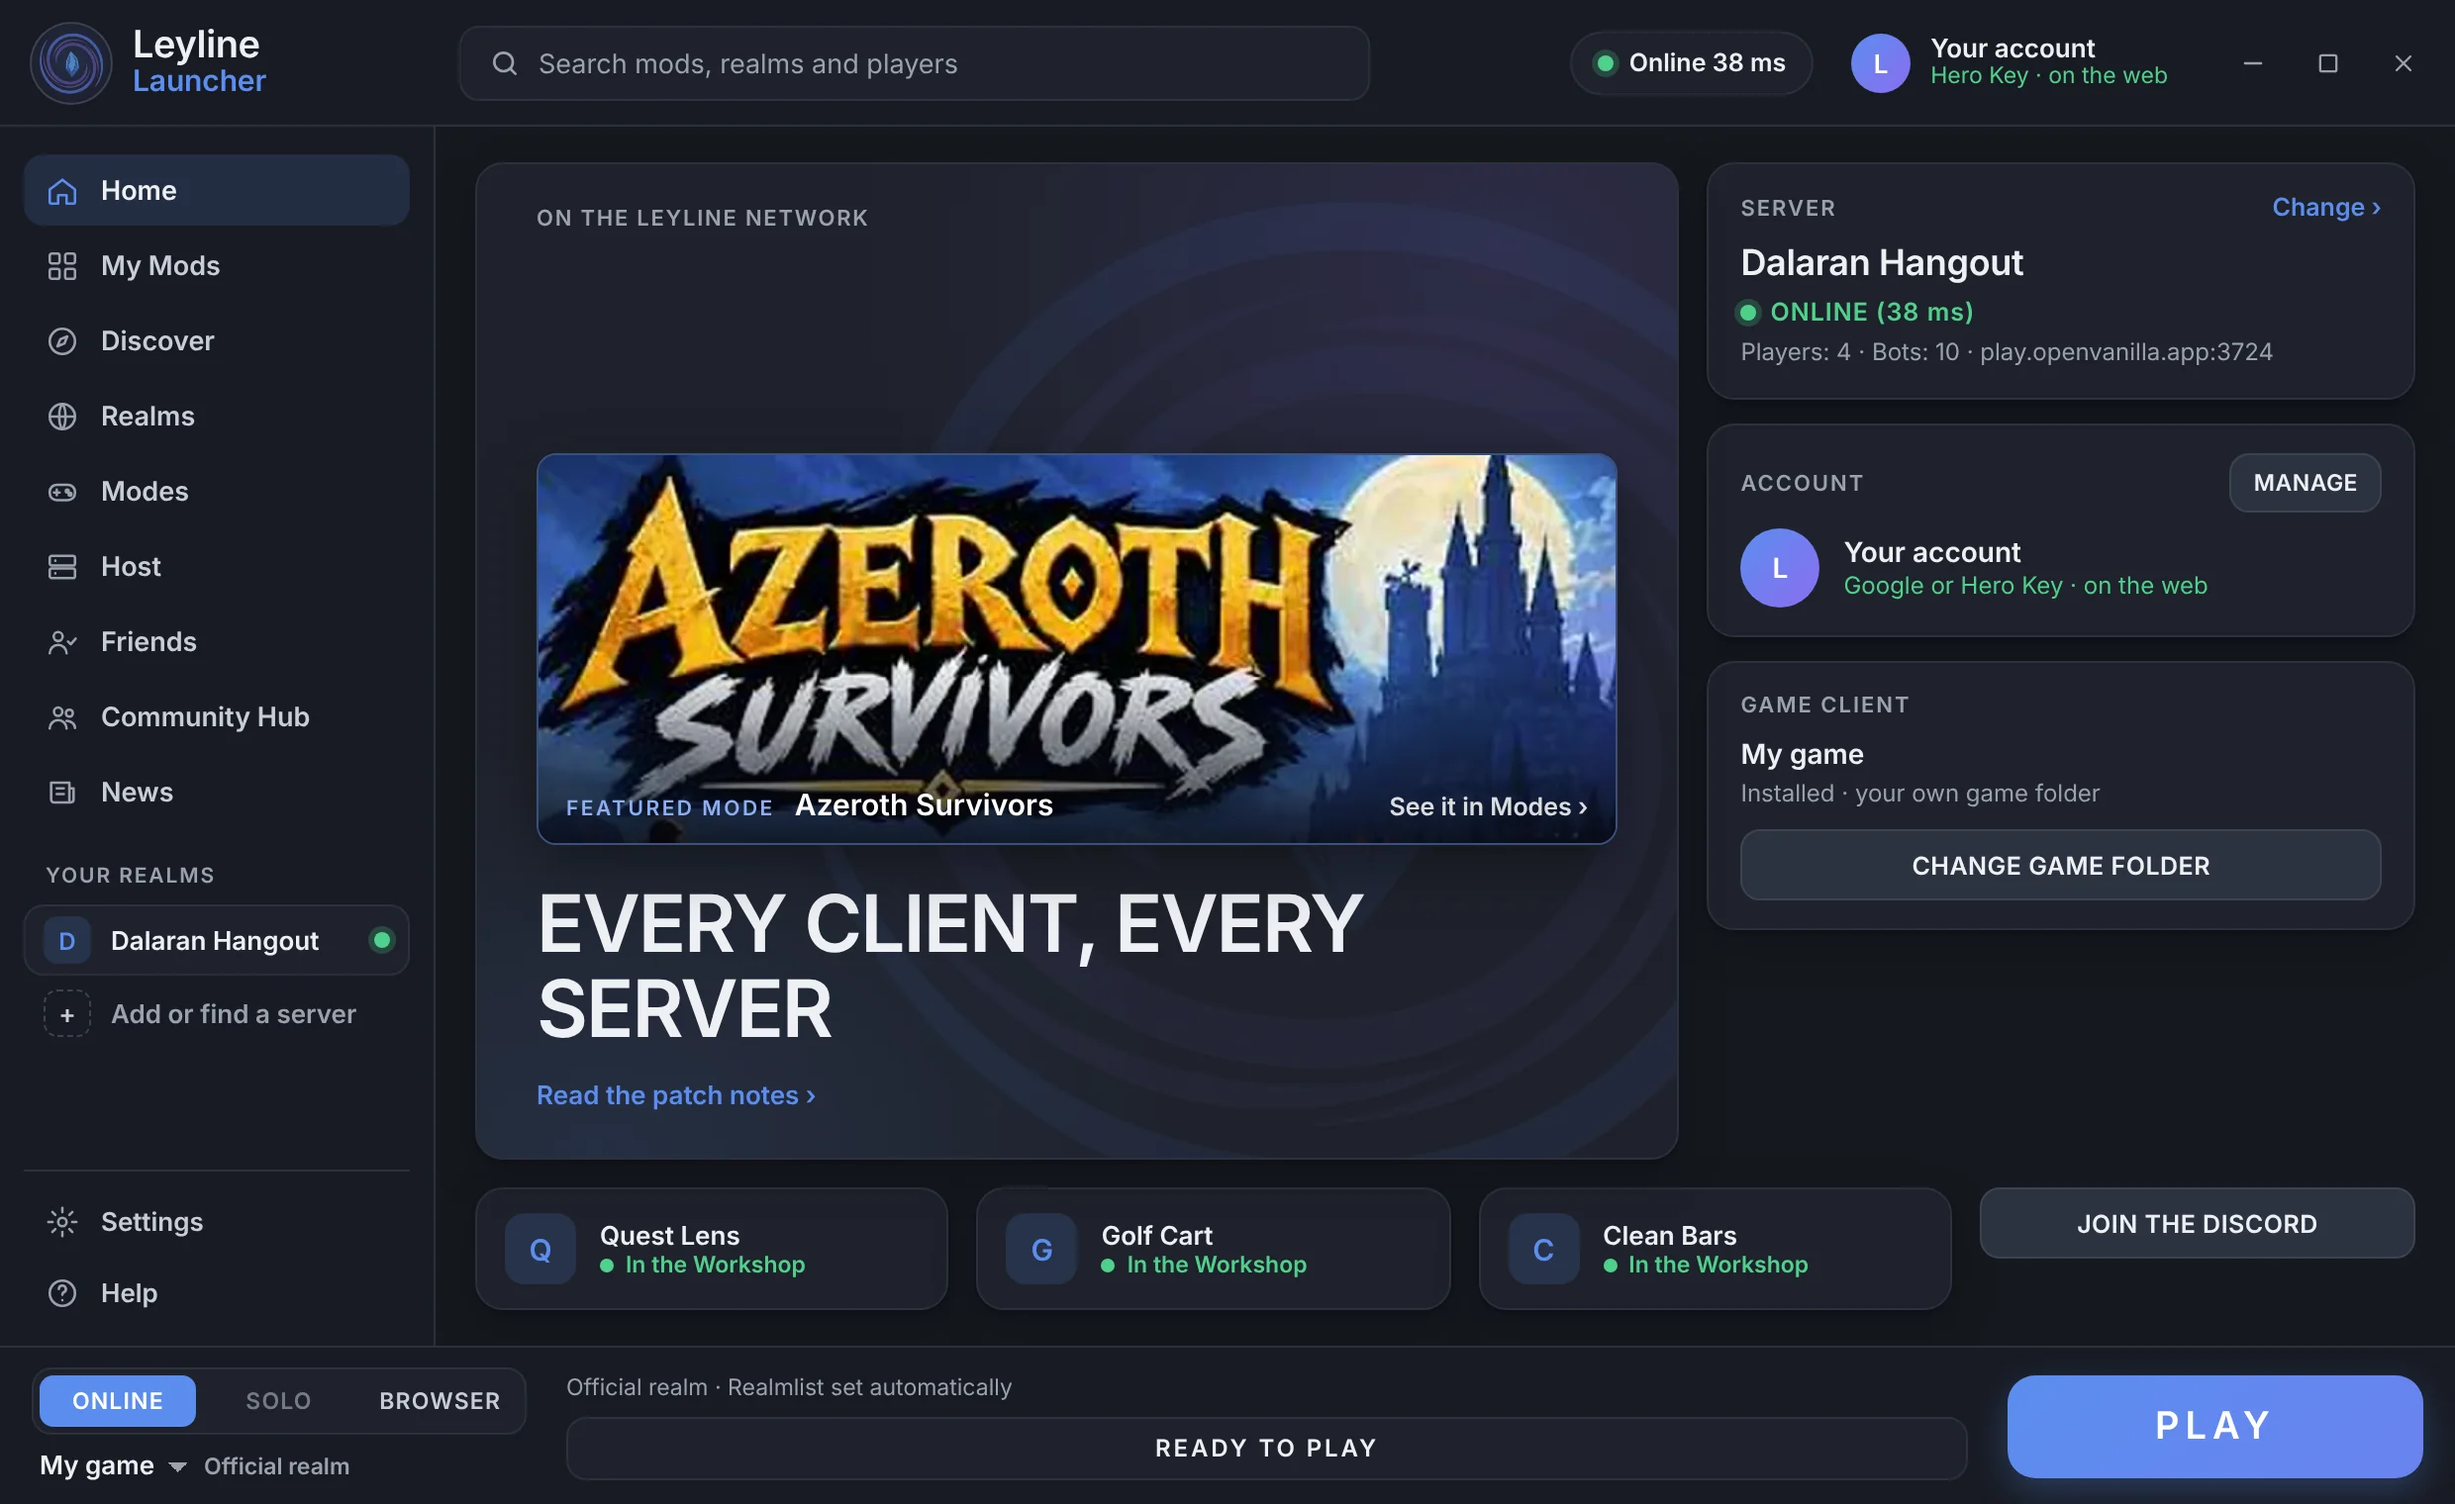
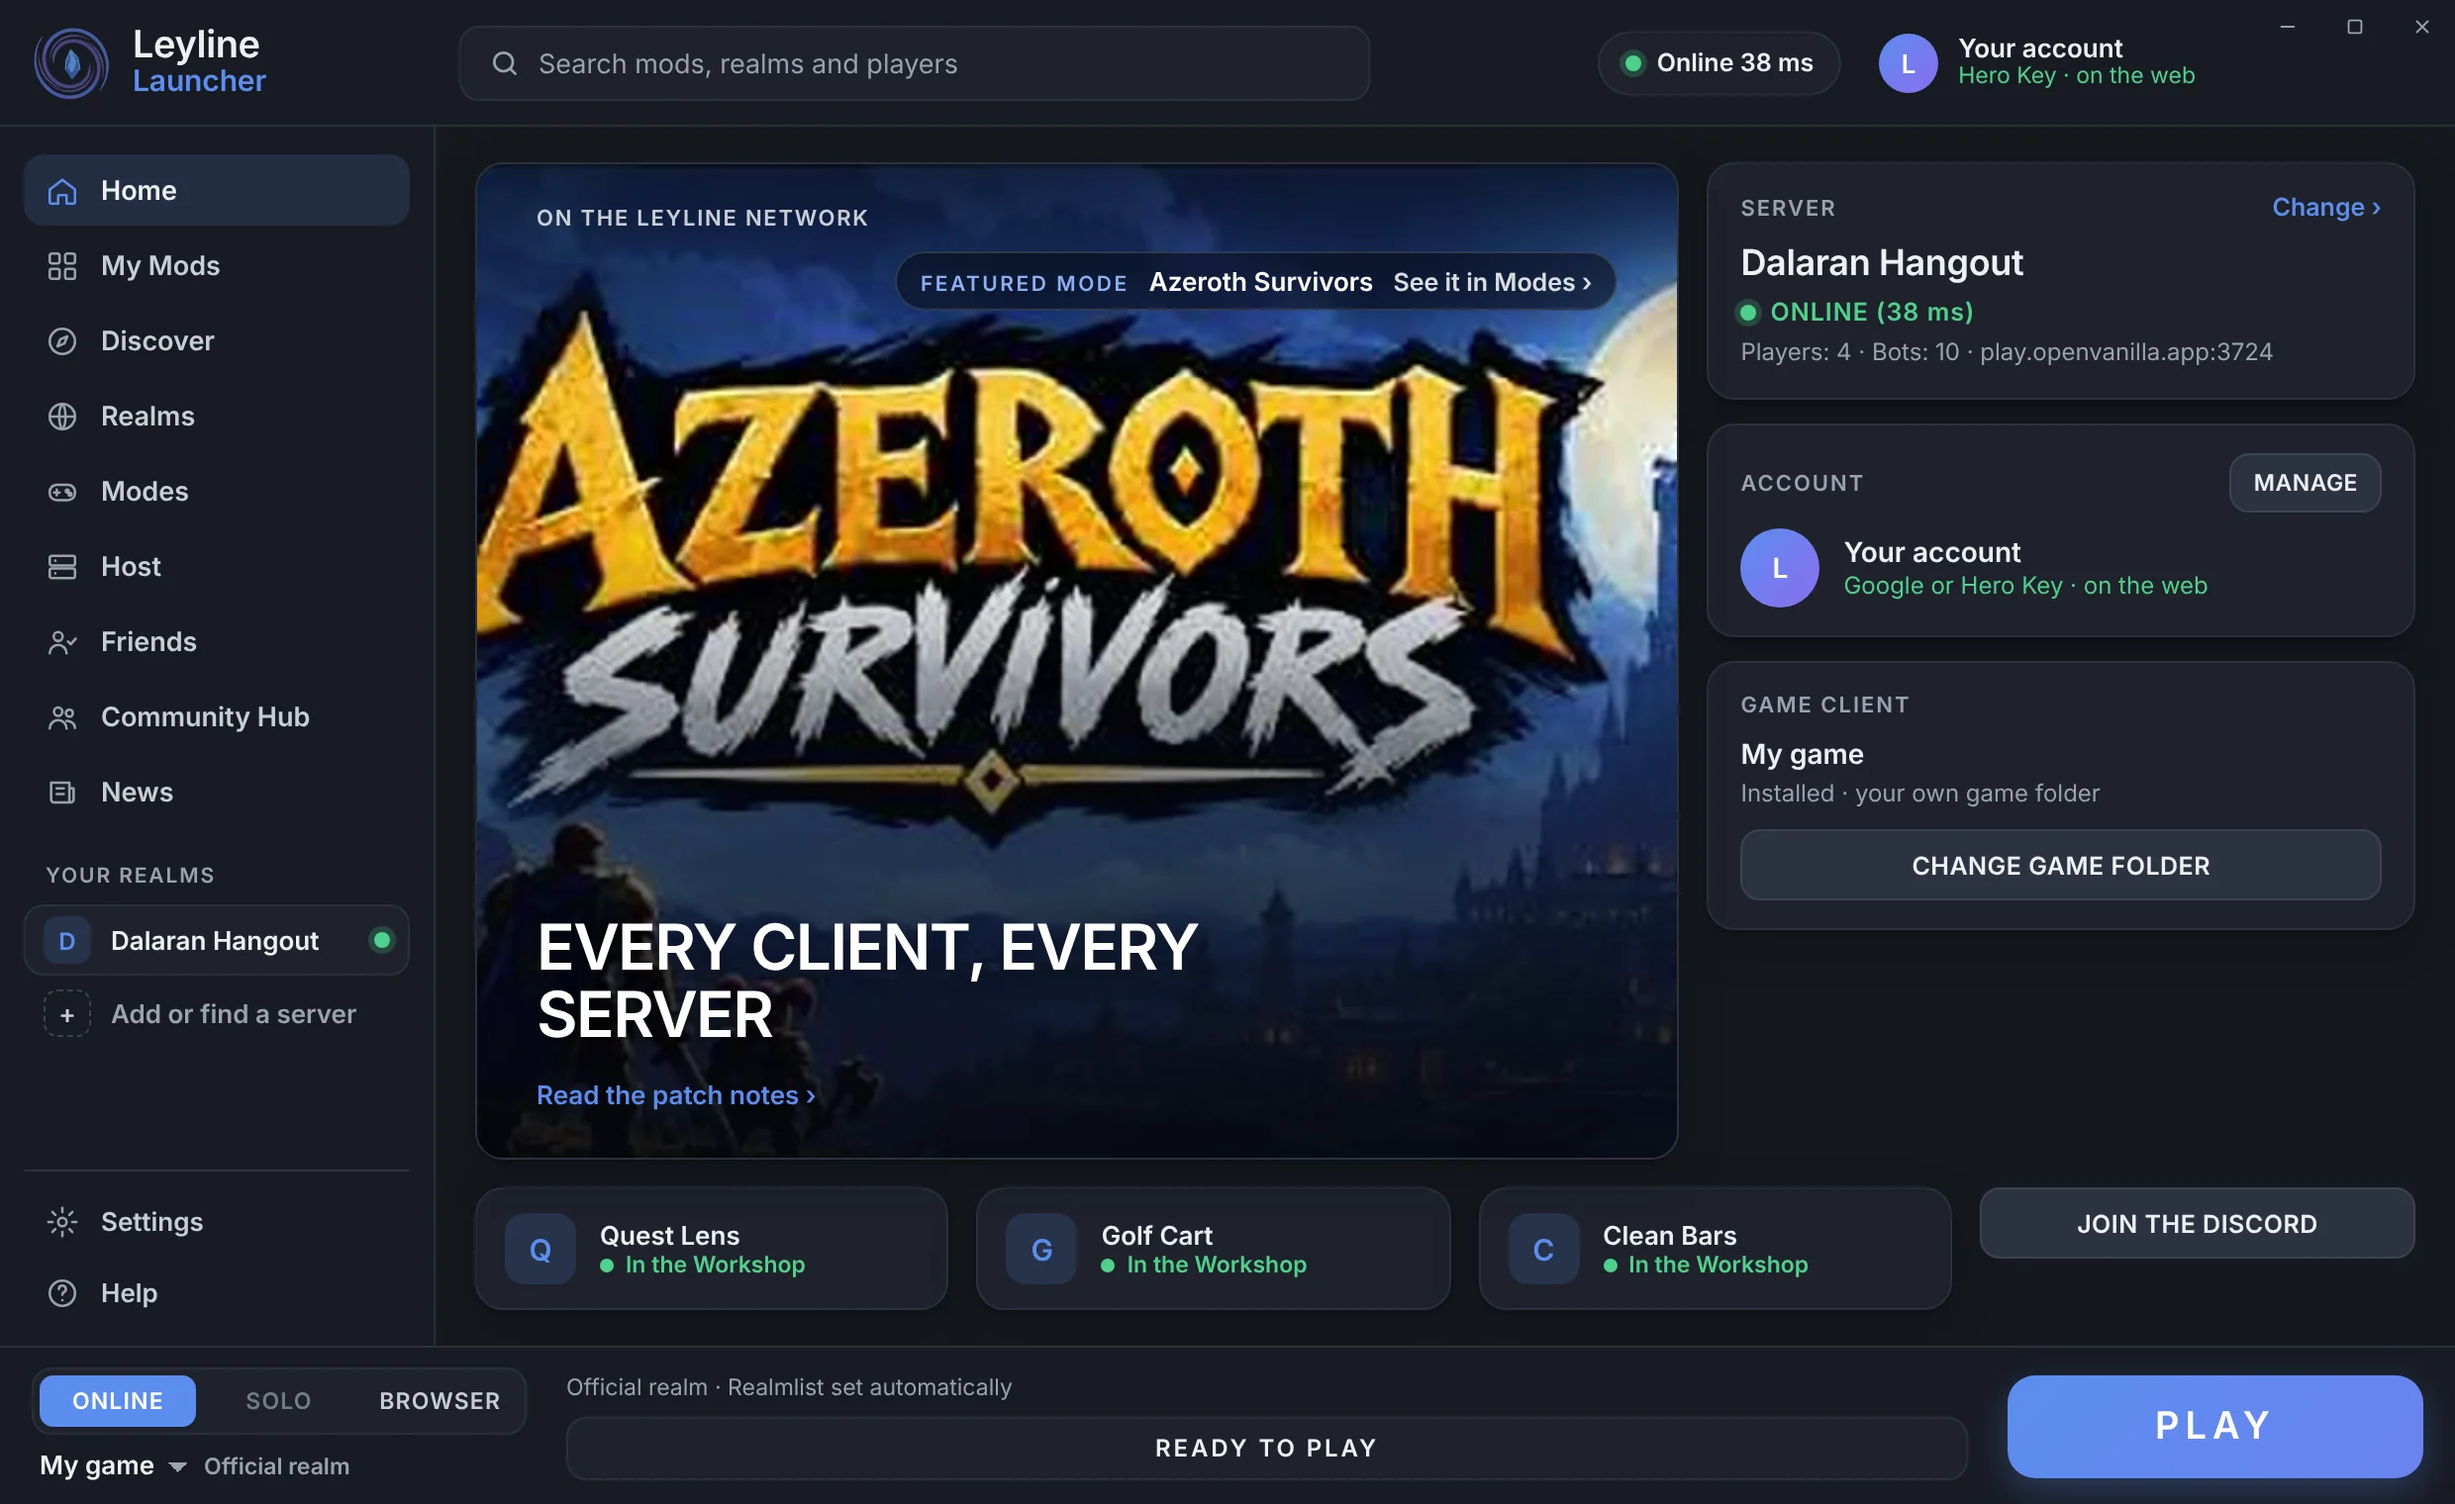
Updates from Claude (autopilot)

Changed region(s): [[0.1863, 0.0928, 0.6831, 0.773], [0.652, 0.0, 0.9004, 0.0618], [0.0, 0.0, 0.0621, 0.0618]]

diff --git a/launcher/ui/modes.css b/launcher/ui/modes.css
@@ -24,3 +24,20 @@
 .feat-mode:hover .fm-art, .feat-mode:focus-visible .fm-art { transform: scale(1.04); }
 .feat-mode:hover, .feat-mode:focus-visible { border-color: var(--t-accent); }
 @media (prefers-reduced-motion: reduce) { .feat-mode .fm-art { transition: none; } .feat-mode:hover .fm-art { transform: none; } .md-card.md-flash { animation: none; } }
+
+/* the featured mode's art fills Home's whole hero card (owner 2026-10-30): the banner is the card's backdrop, the
+   card's own words (tag line, title, patch notes) sit above it on a dark gradient; anywhere else on the card opens the mode */
+.news.has-feat::before { display: none; }
+.news.has-feat .feat-mode { position: absolute; inset: 0; z-index: 0; height: auto; margin: 0; border: 0; border-radius: 0; box-shadow: none; }
+.news.has-feat .feat-mode .fm-art { object-position: 22% 38%; }
+.news.has-feat h1 { font-size: 32px; max-width: 70%; }
+.news.has-feat .feat-mode::after {
+  background: linear-gradient(0deg, rgba(5, 7, 14, .92) 0%, rgba(5, 7, 14, .55) 34%, rgba(5, 7, 14, 0) 62%),
+              linear-gradient(180deg, rgba(5, 7, 14, .55) 0%, rgba(5, 7, 14, 0) 22%); }
+.news.has-feat > :not(.feat-mode) { position: relative; z-index: 1; }
+.news.has-feat .news-top { position: absolute; color: rgba(255, 255, 255, .78); }
+.news.has-feat h1, .news.has-feat ul { color: #fff; text-shadow: 0 2px 12px rgba(0, 0, 0, .6); }
+.news.has-feat ul { color: rgba(255, 255, 255, .86); }
+.news.has-feat .fm-txt { top: 44px; bottom: auto; left: auto; right: 30px; padding: 6px 12px; border-radius: 999px;
+  background: rgba(5, 7, 14, .55); -webkit-backdrop-filter: blur(6px); backdrop-filter: blur(6px); border: 1px solid rgba(255, 255, 255, .14); }
+.news.has-feat .fm-txt b { font-size: 13px; }

diff --git a/launcher/ui/style.css b/launcher/ui/style.css
@@ -112,7 +112,7 @@ svg { flex: none; }
 .titlebar {
   grid-column: 1 / -1;
   display: flex; align-items: center; gap: 12px;
-  padding: 0 8px 0 0;
+  padding: 0;
   background: var(--t-chrome);
   border-bottom: var(--t-border-w) solid var(--t-border);
 }
@@ -168,11 +168,13 @@ svg { flex: none; }
 .chip-txt { display: grid; text-align: left; line-height: 1.2; }
 .chip-txt span { font-size: 13px; font-weight: 600; }
 .chip-txt i { font-style: normal; font-size: 11.5px; color: var(--t-ok); }
-.winbtns { display: flex; gap: 2px; }
-.winbtns button { width: 36px; height: 32px; border: 0; border-radius: var(--t-radius-xs); background: transparent; color: var(--t-muted); cursor: pointer; display: grid; place-items: center; }
+/* the window buttons tucked into the top-right corner (owner 2026-10-30): flush with the edge, small, no gap */
+.winbtns { display: flex; gap: 0; align-self: flex-start; margin-left: 4px; }
+.winbtns button { width: 34px; height: 26px; border: 0; border-radius: 0; background: transparent; color: var(--t-muted); cursor: pointer; display: grid; place-items: center; }
 .winbtns button:hover { background: var(--t-raised); color: var(--t-text); }
 .winbtns #win-close:hover { background: var(--t-danger); color: #fff; }
-.winbtns svg { width: 14px; height: 14px; fill: none; stroke: currentColor; stroke-width: 2; stroke-linecap: round; }
+.winbtns #win-close { border-top-right-radius: var(--t-radius-xs); }
+.winbtns svg { width: 11px; height: 11px; fill: none; stroke: currentColor; stroke-width: 2; stroke-linecap: round; }
 
 /* ---------------------------------------------------------------- sidebar */
 .side {

diff --git a/launcher/ui/spin.css b/launcher/ui/spin.css
@@ -30,10 +30,6 @@
 .busy > .ly-spin:first-child { --ly-spin-size: 15px; margin: -2px 7px 0 0; }
 /* a server pill that is checking: the spinner takes the dot's place */
 .srv-state:has(.busy) > .dot, .pill:has(.busy) > .dot { display: none; }
-/* the header mark: the same spinner in its ring, calmer (class slow) */
-.brand .ly-spin {
-  width: 40px; height: 40px; border-radius: 50%;
-  background: radial-gradient(circle at 50% 45%, rgba(91, 141, 239, 0.18), rgba(139, 108, 240, 0.06) 70%);
-  box-shadow: 0 0 0 1px var(--t-border-strong);
-}
-.brand .ly-spin::before, .brand .ly-spin::after { inset: 3px; }
+/* the header mark: just the cut mark, spinning (calmer, class slow); no ring or disc behind it (owner 2026-10-30) */
+.brand .ly-spin { width: 40px; height: 40px; background: none; box-shadow: none; }
+.brand .ly-spin::before, .brand .ly-spin::after { inset: 0; }

diff --git a/launcher/ui/modes.js b/launcher/ui/modes.js
@@ -221,8 +221,9 @@
     b.append(img, txt);
     img.addEventListener("error", () => b.remove());
     b.addEventListener("click", () => show(FEATURED));
-    const h1 = news.querySelector("h1");
-    news.insertBefore(b, h1 || null);
+    img.addEventListener("error", () => news.classList.remove("has-feat"));
+    news.classList.add("has-feat");      // the art fills the whole hero card; its words sit on top
+    news.insertBefore(b, news.firstChild);
   }
   featureBanner();
 

diff --git a/stream/hub.py b/stream/hub.py
@@ -2305,8 +2305,8 @@ background:rgba(24,27,35,.86);-webkit-backdrop-filter:blur(10px);backdrop-filter
 @supports (animation-timeline:scroll()){.hb-top{animation:hb-edge linear both;animation-timeline:scroll(root);animation-range:0 56px}}
 @keyframes hb-edge{from{border-bottom-color:transparent;box-shadow:none}to{border-bottom-color:var(--lk-border);box-shadow:0 6px 22px rgba(0,0,0,.35)}}
 .hb-brand{display:inline-flex;align-items:center;gap:10px;text-decoration:none;color:var(--lk-text)!important;flex:none}
-.hb-mark{border-radius:50%;background:radial-gradient(circle at 50% 45%,rgba(91,141,239,.18),rgba(139,108,240,.06) 70%);box-shadow:0 0 0 1px var(--lk-border-strong)}
-.hb-mark::before,.hb-mark::after{inset:3px}
+.hb-mark{background:none;box-shadow:none}
+.hb-mark::before,.hb-mark::after{inset:0}
 .hb-word{display:grid;line-height:1.05}.hb-word b{font-size:23px;font-weight:700;letter-spacing:-.01em}
 .hb-word i{font-style:normal;font-weight:600;font-size:15.5px;color:var(--lk-accent)}
 .hb-nav{display:flex;align-items:center;gap:clamp(2px,.6vw,12px);margin:0 auto}
